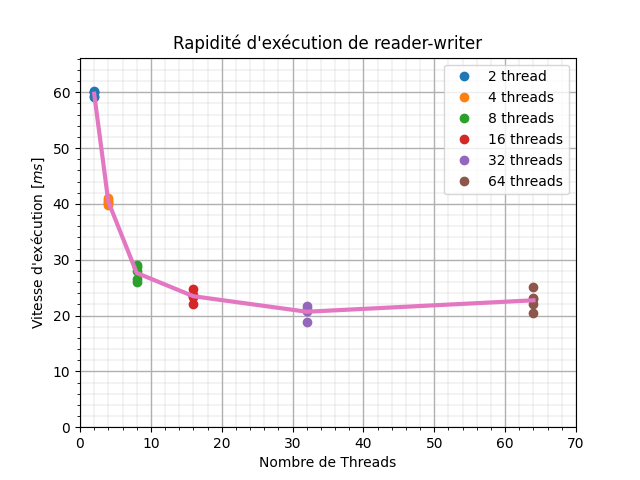
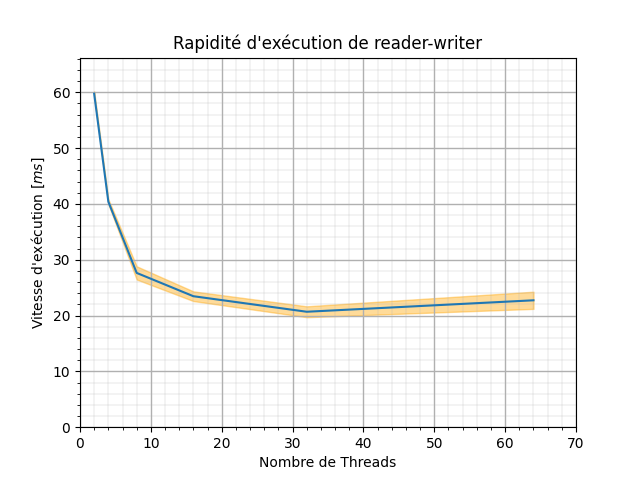
fill between and removed all the dots

Changed region(s): [[0.6875, 0.125, 0.9062, 0.4062], [0.1562, 0.2812, 0.8438, 0.6875], [0.125, 0.1875, 0.1562, 0.2812]]

diff --git a/Inginious/P1/perf/plot.py b/Inginious/P1/perf/plot.py
@@ -11,6 +11,7 @@ for f in os.listdir("perf/data"):
         fig, ax = plt.subplots()
         maximum = data.to_numpy().max()
         width = data.shape[1]
+        standard = [0 for _ in range(width)]
         
         track = 0
         time_scale = timeScale[track]
@@ -25,13 +26,14 @@ for f in os.listdir("perf/data"):
         
         for i,col in enumerate(data.columns):
             nb_threads = int(col.strip().split()[0])
-            ax.plot(np.ones(len(data[col]))*nb_threads, data[col]/(1000**track), "o", label=col.strip())
+            #ax.plot(np.ones(len(data[col]))*nb_threads, data[col]/(1000**track), "o", label=col.strip()) # To plot all the dots
             av[i] = data[col].mean()
             t[i] = nb_threads
             
-    
-        ax.legend()
-        ax.plot(t, av/(1000**track), linewidth=3)
+            standard[i] = (data[col].to_numpy()/(1000**track)).std()
+            
+        ax.plot(t, av/(1000**track))
+        ax.fill_between(t, av/(1000**track) - standard, av/(1000**track) + standard, alpha=0.4, color="orange")
         
         ax.set_title(f"Rapidité d'exécution de {f.split(".")[0]}")
         ax.set_xlabel("Nombre de Threads")

diff --git a/Inginious/P1/src/test-and-set.c b/Inginious/P1/src/test-and-set.c
@@ -1,0 +1,21 @@
+#include <stdio.h>
+
+int L = 0;
+
+void lock(){
+    asm(
+        "enter:\n\t"
+        "movl $1, %%eax\n\t"
+        "xchgl %%eax, %0\n\t"
+        "testl %%eax, %%eax\n\t"
+        "jnz enter\n\t"
+        :"+m"(L)
+    );
+}
+
+
+
+int main(int arc, char** argv){
+    printf("Hello\n");
+    lock();
+}
